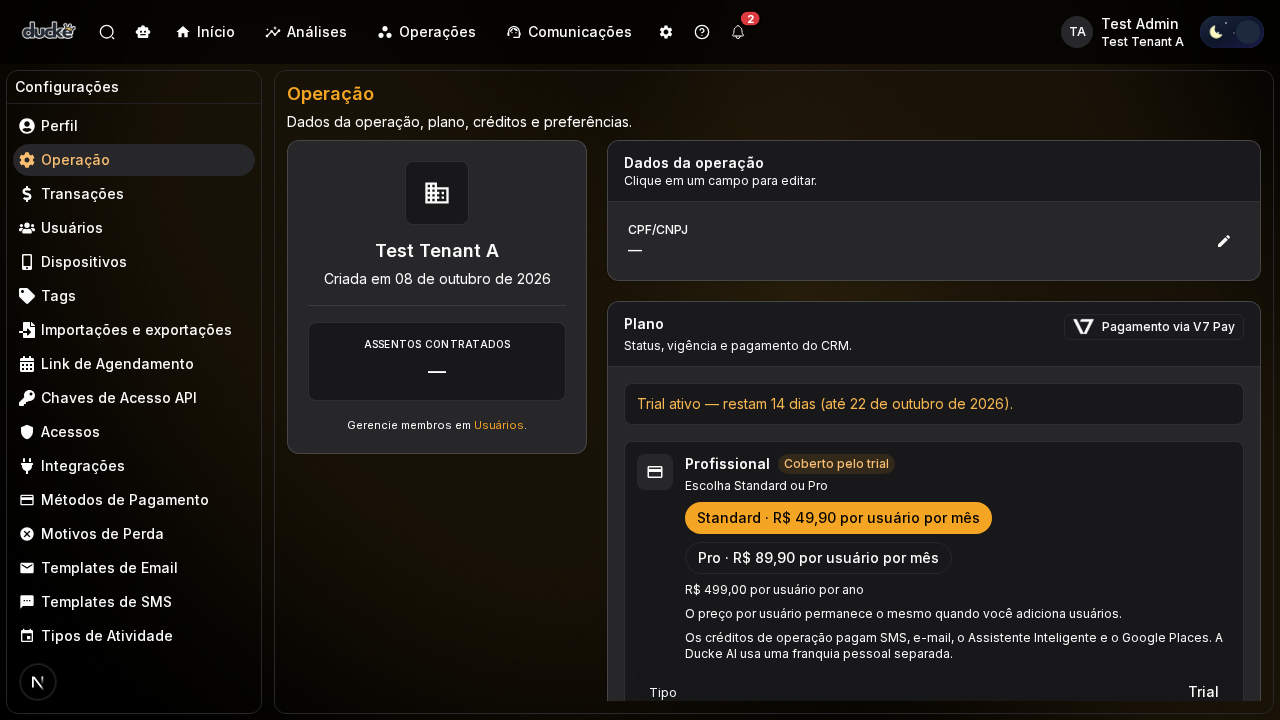
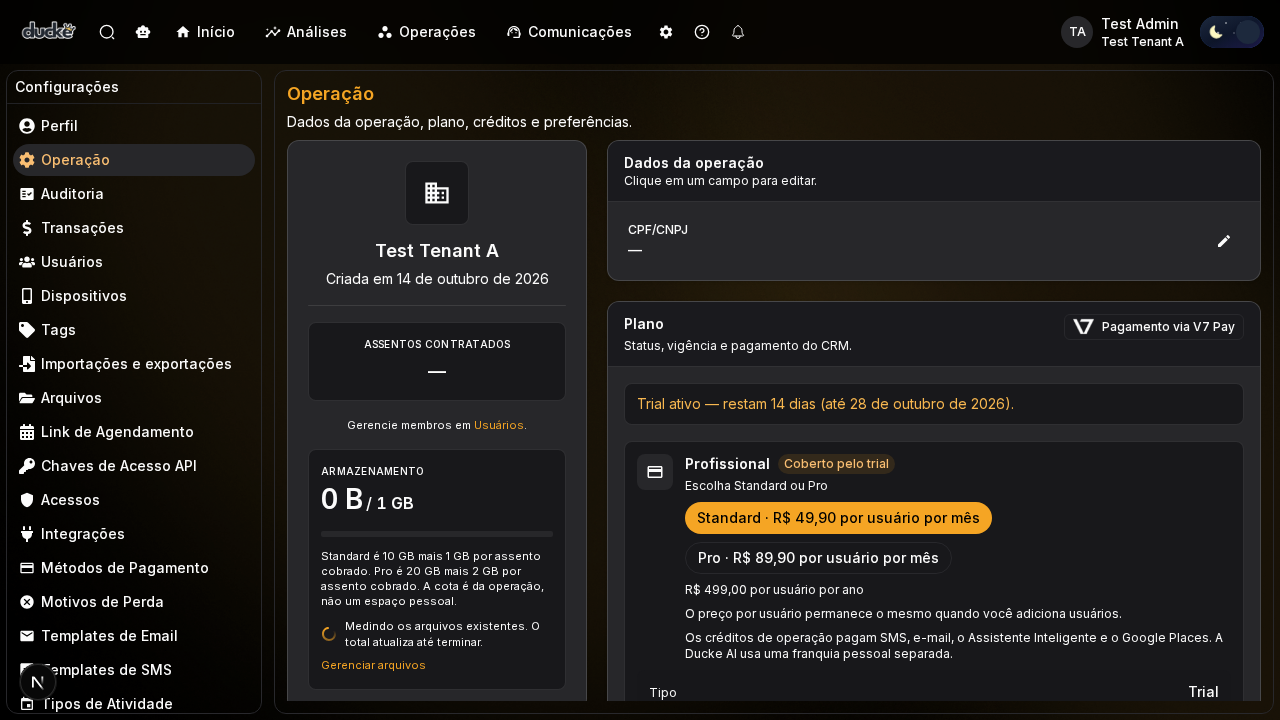
Add 'Arquivos' section to system configuration and update manifest
- Introduced a new section for **Arquivos** in the system configuration, detailing file storage, access instructions, and usage limits.
- Updated the **Configuração de operação** documentation to include a link to the new **Arquivos** section.
- Added a new image asset for the **Arquivos** section to enhance visual guidance.
- Updated the `manifest.json` to include the new image asset and revised the `capturedAt` timestamp.

diff --git a/app/10-configuracao-do-sistema/_meta.js b/app/10-configuracao-do-sistema/_meta.js
@@ -14,4 +14,5 @@ export default {
   '12-integracoes': 'Integrações',
   '13-templates-de-email': 'Templates de Email',
   '14-auditoria-operacional': 'Auditoria operacional',
+  '15-arquivos': 'Arquivos',
 }
